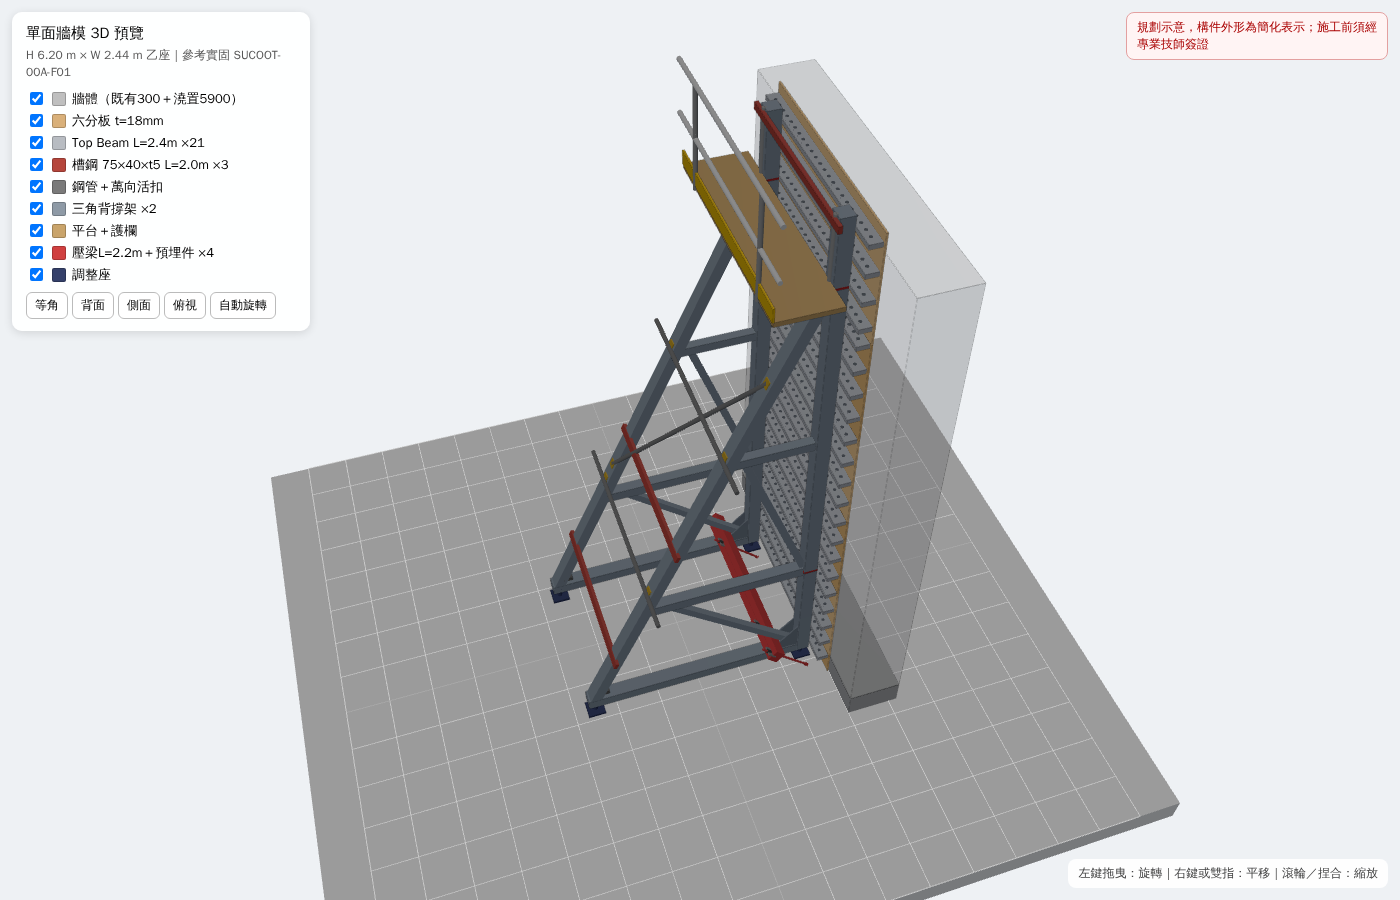
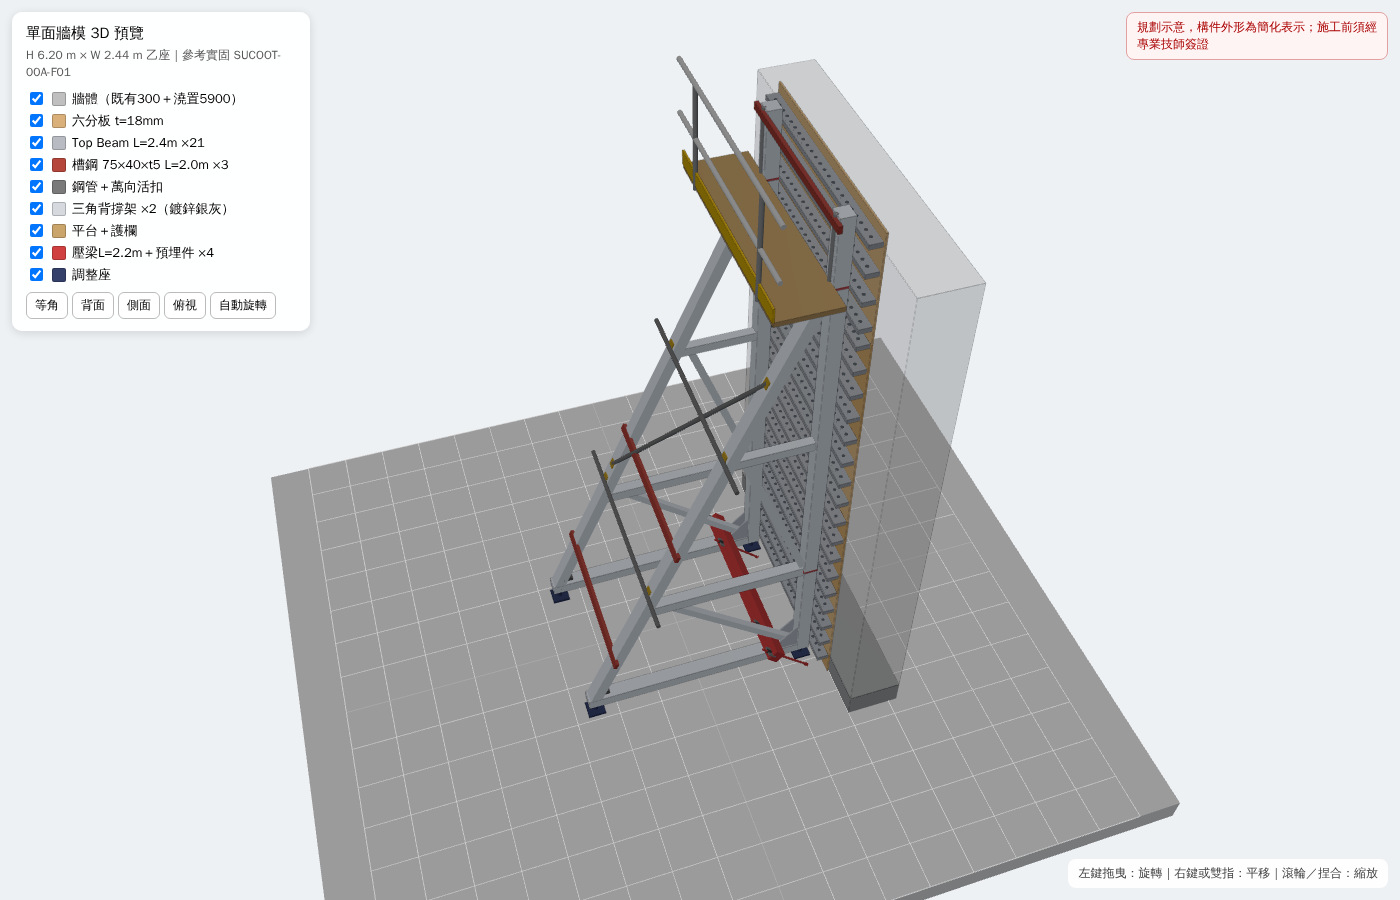
三角背撐架改為銀灰色
Claude-Session: https://claude.ai/code/session_01KYiCbAmc6ppaGdT6hpFcxz

diff --git a/單面牆模圖說/單面牆模_H620xW244_圖說.html b/單面牆模圖說/單面牆模_H620xW244_圖說.html
@@ -308,13 +308,13 @@
 <polygon points="165.51,88.71 169.37,88.71 169.37,87.29 165.51,87.29" stroke="#000" stroke-width="0.18" stroke-dasharray="" fill="#b8bcc2"/>
 <polygon points="165.51,80.00 169.37,80.00 169.37,78.57 165.51,78.57" stroke="#000" stroke-width="0.18" stroke-dasharray="" fill="#b8bcc2"/>
 <polygon points="165.51,71.29 169.37,71.29 169.37,69.86 165.51,69.86" stroke="#000" stroke-width="0.18" stroke-dasharray="" fill="#b8bcc2"/>
-<polygon points="169.37,245.43 173.66,245.43 173.66,66.86 169.37,66.86" stroke="#000" stroke-width="0.35" stroke-dasharray="" fill="#e0e0e0"/>
+<polygon points="169.37,245.43 173.66,245.43 173.66,66.86 169.37,66.86" stroke="#000" stroke-width="0.35" stroke-dasharray="" fill="#d3d7dc"/>
 <line x1="168.23" y1="202.57" x2="174.80" y2="202.57" stroke="#c00" stroke-width="0.35" stroke-dasharray=""/>
 <line x1="168.23" y1="88.29" x2="174.80" y2="88.29" stroke="#c00" stroke-width="0.35" stroke-dasharray=""/>
-<polygon points="173.66,88.29 246.00,241.86 241.43,241.86 173.66,96.29" stroke="#000" stroke-width="0.35" stroke-dasharray="" fill="#e0e0e0"/>
-<polygon points="173.66,245.43 246.00,245.43 246.00,241.86 173.66,241.86" stroke="#000" stroke-width="0.35" stroke-dasharray="" fill="#e0e0e0"/>
-<polygon points="173.66,204.29 224.56,204.29 224.56,200.71 173.66,200.71" stroke="#000" stroke-width="0.35" stroke-dasharray="" fill="#e0e0e0"/>
-<polygon points="173.66,145.43 197.39,145.43 197.39,142.57 173.66,142.57" stroke="#000" stroke-width="0.18" stroke-dasharray="" fill="#e0e0e0"/>
+<polygon points="173.66,88.29 246.00,241.86 241.43,241.86 173.66,96.29" stroke="#000" stroke-width="0.35" stroke-dasharray="" fill="#d3d7dc"/>
+<polygon points="173.66,245.43 246.00,245.43 246.00,241.86 173.66,241.86" stroke="#000" stroke-width="0.35" stroke-dasharray="" fill="#d3d7dc"/>
+<polygon points="173.66,204.29 224.56,204.29 224.56,200.71 173.66,200.71" stroke="#000" stroke-width="0.35" stroke-dasharray="" fill="#d3d7dc"/>
+<polygon points="173.66,145.43 197.39,145.43 197.39,142.57 173.66,142.57" stroke="#000" stroke-width="0.18" stroke-dasharray="" fill="#d3d7dc"/>
 <line x1="173.66" y1="241.71" x2="217.70" y2="204.29" stroke="#000" stroke-width="0.35" stroke-dasharray=""/>
 <line x1="173.66" y1="200.57" x2="194.25" y2="145.43" stroke="#000" stroke-width="0.35" stroke-dasharray=""/>
 <polygon points="173.66,69.63 174.80,69.63 174.80,67.49 173.66,67.49" stroke="#000" stroke-width="0.35" stroke-dasharray="" fill="#ffe08a"/>
@@ -492,13 +492,13 @@
 <polygon points="100.00,40.90 222.00,40.90 222.00,40.00 100.00,40.00" stroke="#000" stroke-width="0.35" stroke-dasharray="" fill="#e8c79a"/>
 <polygon points="101.00,47.65 221.00,47.65 221.00,40.90 101.00,40.90" stroke="#000" stroke-width="0.35" stroke-dasharray="" fill="#b8bcc2"/>
 <polygon points="114.50,181.75 122.50,181.75 122.50,47.65 114.50,47.65" stroke="#000" stroke-width="0.18" stroke-dasharray="1.5,1" fill="none"/>
-<polygon points="114.50,55.15 122.50,55.15 122.50,47.65 114.50,47.65" stroke="#000" stroke-width="0.35" stroke-dasharray="" fill="#e0e0e0"/>
+<polygon points="114.50,55.15 122.50,55.15 122.50,47.65 114.50,47.65" stroke="#000" stroke-width="0.35" stroke-dasharray="" fill="#d3d7dc"/>
 <polygon points="115.50,181.75 121.50,181.75 121.50,175.75 115.50,175.75" stroke="#000" stroke-width="0.18" stroke-dasharray="" fill="none"/>
 <circle cx="118.50" cy="178.75" r="1.50" stroke="#000" stroke-width="0.18" fill="none"/>
 <line x1="118.50" y1="25.00" x2="118.50" y2="196.75" stroke="#000" stroke-width="0.13" stroke-dasharray="6,1,1,1"/>
 <text x="118.50" y="214.25" font-size="2.6" text-anchor="middle" fill="#000" transform="rotate(0.0 118.50 214.25)">F1</text>
 <polygon points="199.50,181.75 207.50,181.75 207.50,47.65 199.50,47.65" stroke="#000" stroke-width="0.18" stroke-dasharray="1.5,1" fill="none"/>
-<polygon points="199.50,55.15 207.50,55.15 207.50,47.65 199.50,47.65" stroke="#000" stroke-width="0.35" stroke-dasharray="" fill="#e0e0e0"/>
+<polygon points="199.50,55.15 207.50,55.15 207.50,47.65 199.50,47.65" stroke="#000" stroke-width="0.35" stroke-dasharray="" fill="#d3d7dc"/>
 <polygon points="200.50,181.75 206.50,181.75 206.50,175.75 200.50,175.75" stroke="#000" stroke-width="0.18" stroke-dasharray="" fill="none"/>
 <circle cx="203.50" cy="178.75" r="1.50" stroke="#000" stroke-width="0.18" fill="none"/>
 <line x1="203.50" y1="25.00" x2="203.50" y2="196.75" stroke="#000" stroke-width="0.13" stroke-dasharray="6,1,1,1"/>
@@ -602,7 +602,7 @@
 <div class=lst><b>圖說目錄</b><br>S-01 立面圖／六分板配置圖<br>S-02 剖面圖／側壓分布<br>S-03 單元平面圖<br>S-04 Detail A／細部詳圖<br>S-05 設計說明／計算摘要／材料表</div>
 <div class=warn>規劃示意，施工前須經專業技師簽證</div></div></section><section class=pg><svg viewBox="0 0 345 297" width="345mm" height="297mm" font-family="WenQuanYi Zen Hei"><text x="20" y="25" font-size="4" font-weight="bold">詳圖① Top Beam夾  S=1:8</text><text x="160" y="25" font-size="4" font-weight="bold">Detail A 預埋件  S=1:8</text><text x="20" y="212" font-size="4" font-weight="bold">詳圖② 六分板接縫  S=1:8</text><polygon points="50.00,157.50 52.25,157.50 52.25,70.00 50.00,70.00" stroke="#000" stroke-width="0.35" stroke-dasharray="" fill="#e8c79a"/>
 <polygon points="52.25,120.00 69.12,120.00 69.12,113.75 52.25,113.75" stroke="#000" stroke-width="0.35" stroke-dasharray="" fill="#b8bcc2"/>
-<polygon points="69.12,157.50 87.88,157.50 87.88,70.00 69.12,70.00" stroke="#000" stroke-width="0.35" stroke-dasharray="" fill="#e0e0e0"/>
+<polygon points="69.12,157.50 87.88,157.50 87.88,70.00 69.12,70.00" stroke="#000" stroke-width="0.35" stroke-dasharray="" fill="#d3d7dc"/>
 <line x1="70.38" y1="157.50" x2="70.38" y2="70.00" stroke="#000" stroke-width="0.18" stroke-dasharray=""/>
 <polyline points="67.25,111.88 72.88,111.88 72.88,122.50" stroke="#c00" stroke-width="0.35" stroke-dasharray="" fill="none"/>
 <polyline points="67.25,111.88 67.25,114.38" stroke="#c00" stroke-width="0.35" stroke-dasharray="" fill="none"/>
@@ -648,8 +648,8 @@
 <polygon points="127.50,165.00 165.00,165.00 165.00,127.50 127.50,127.50" stroke="#000" stroke-width="0.35" stroke-dasharray="" fill="#bdbdbd"/>
 <polygon points="165.00,165.00 167.25,165.00 167.25,77.50 165.00,77.50" stroke="#000" stroke-width="0.35" stroke-dasharray="" fill="#e8c79a"/>
 <polygon points="167.25,132.50 184.12,132.50 184.12,126.25 167.25,126.25" stroke="#000" stroke-width="0.18" stroke-dasharray="" fill="#b8bcc2"/>
-<polygon points="184.12,145.00 202.88,145.00 202.88,32.50 184.12,32.50" stroke="#000" stroke-width="0.35" stroke-dasharray="" fill="#e0e0e0"/>
-<polygon points="202.88,145.00 340.38,145.00 340.38,129.38 202.88,129.38" stroke="#000" stroke-width="0.35" stroke-dasharray="" fill="#e0e0e0"/>
+<polygon points="184.12,145.00 202.88,145.00 202.88,32.50 184.12,32.50" stroke="#000" stroke-width="0.35" stroke-dasharray="" fill="#d3d7dc"/>
+<polygon points="202.88,145.00 340.38,145.00 340.38,129.38 202.88,129.38" stroke="#000" stroke-width="0.35" stroke-dasharray="" fill="#d3d7dc"/>
 <polygon points="189.75,165.00 197.25,165.00 197.25,145.00 189.75,145.00" stroke="#000" stroke-width="0.18" stroke-dasharray="1.5,1" fill="none"/>
 <polygon points="202.88,129.38 202.88,85.88 246.38,129.38" stroke="#000" stroke-width="0.35" stroke-dasharray="" fill="#9aa3ad"/>
 <line x1="191.25" y1="165.00" x2="262.77" y2="92.73" stroke="#c00" stroke-width="0.35" stroke-dasharray=""/>
